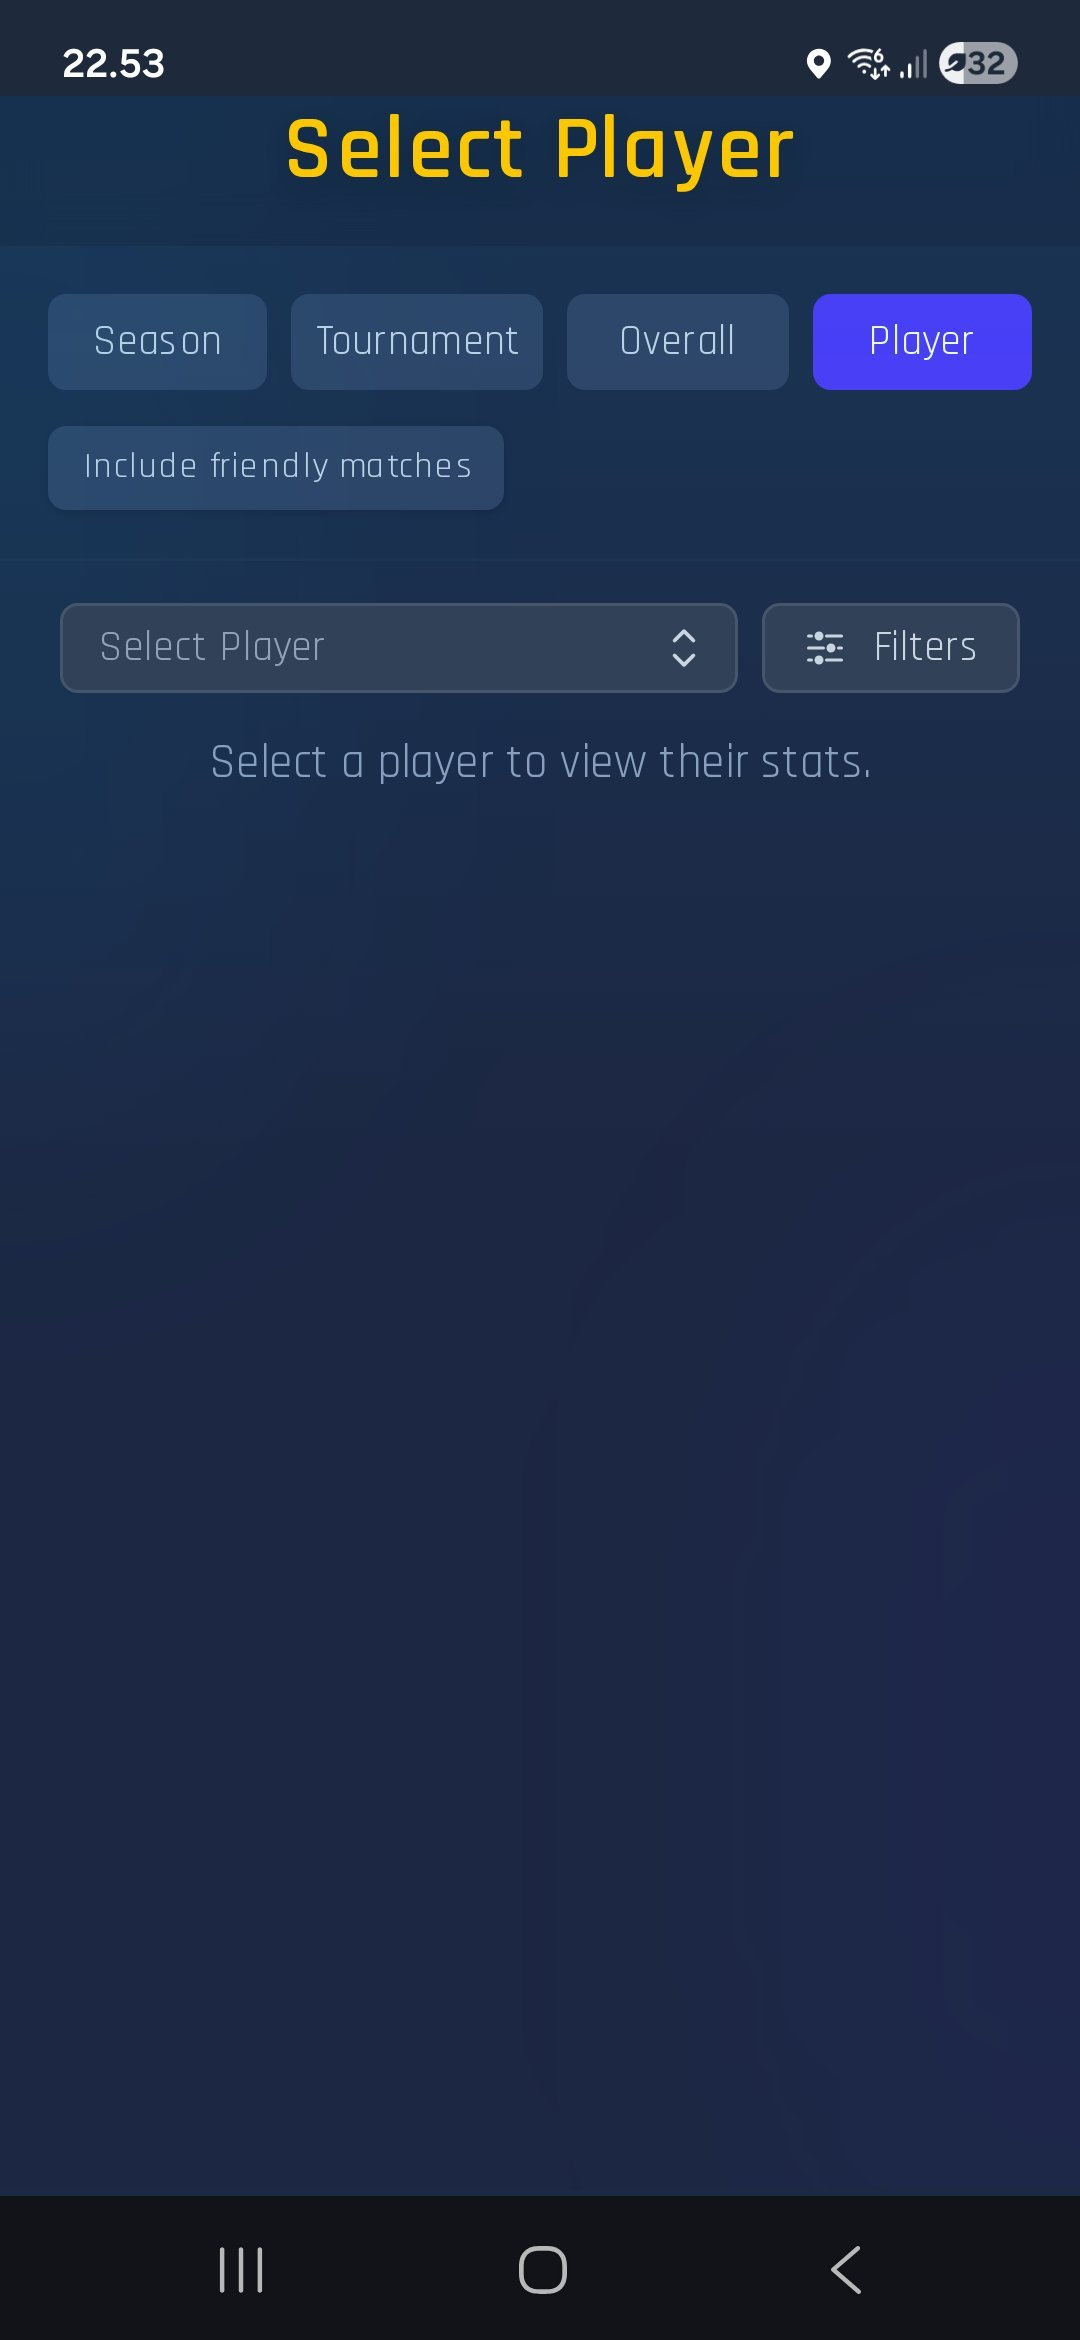
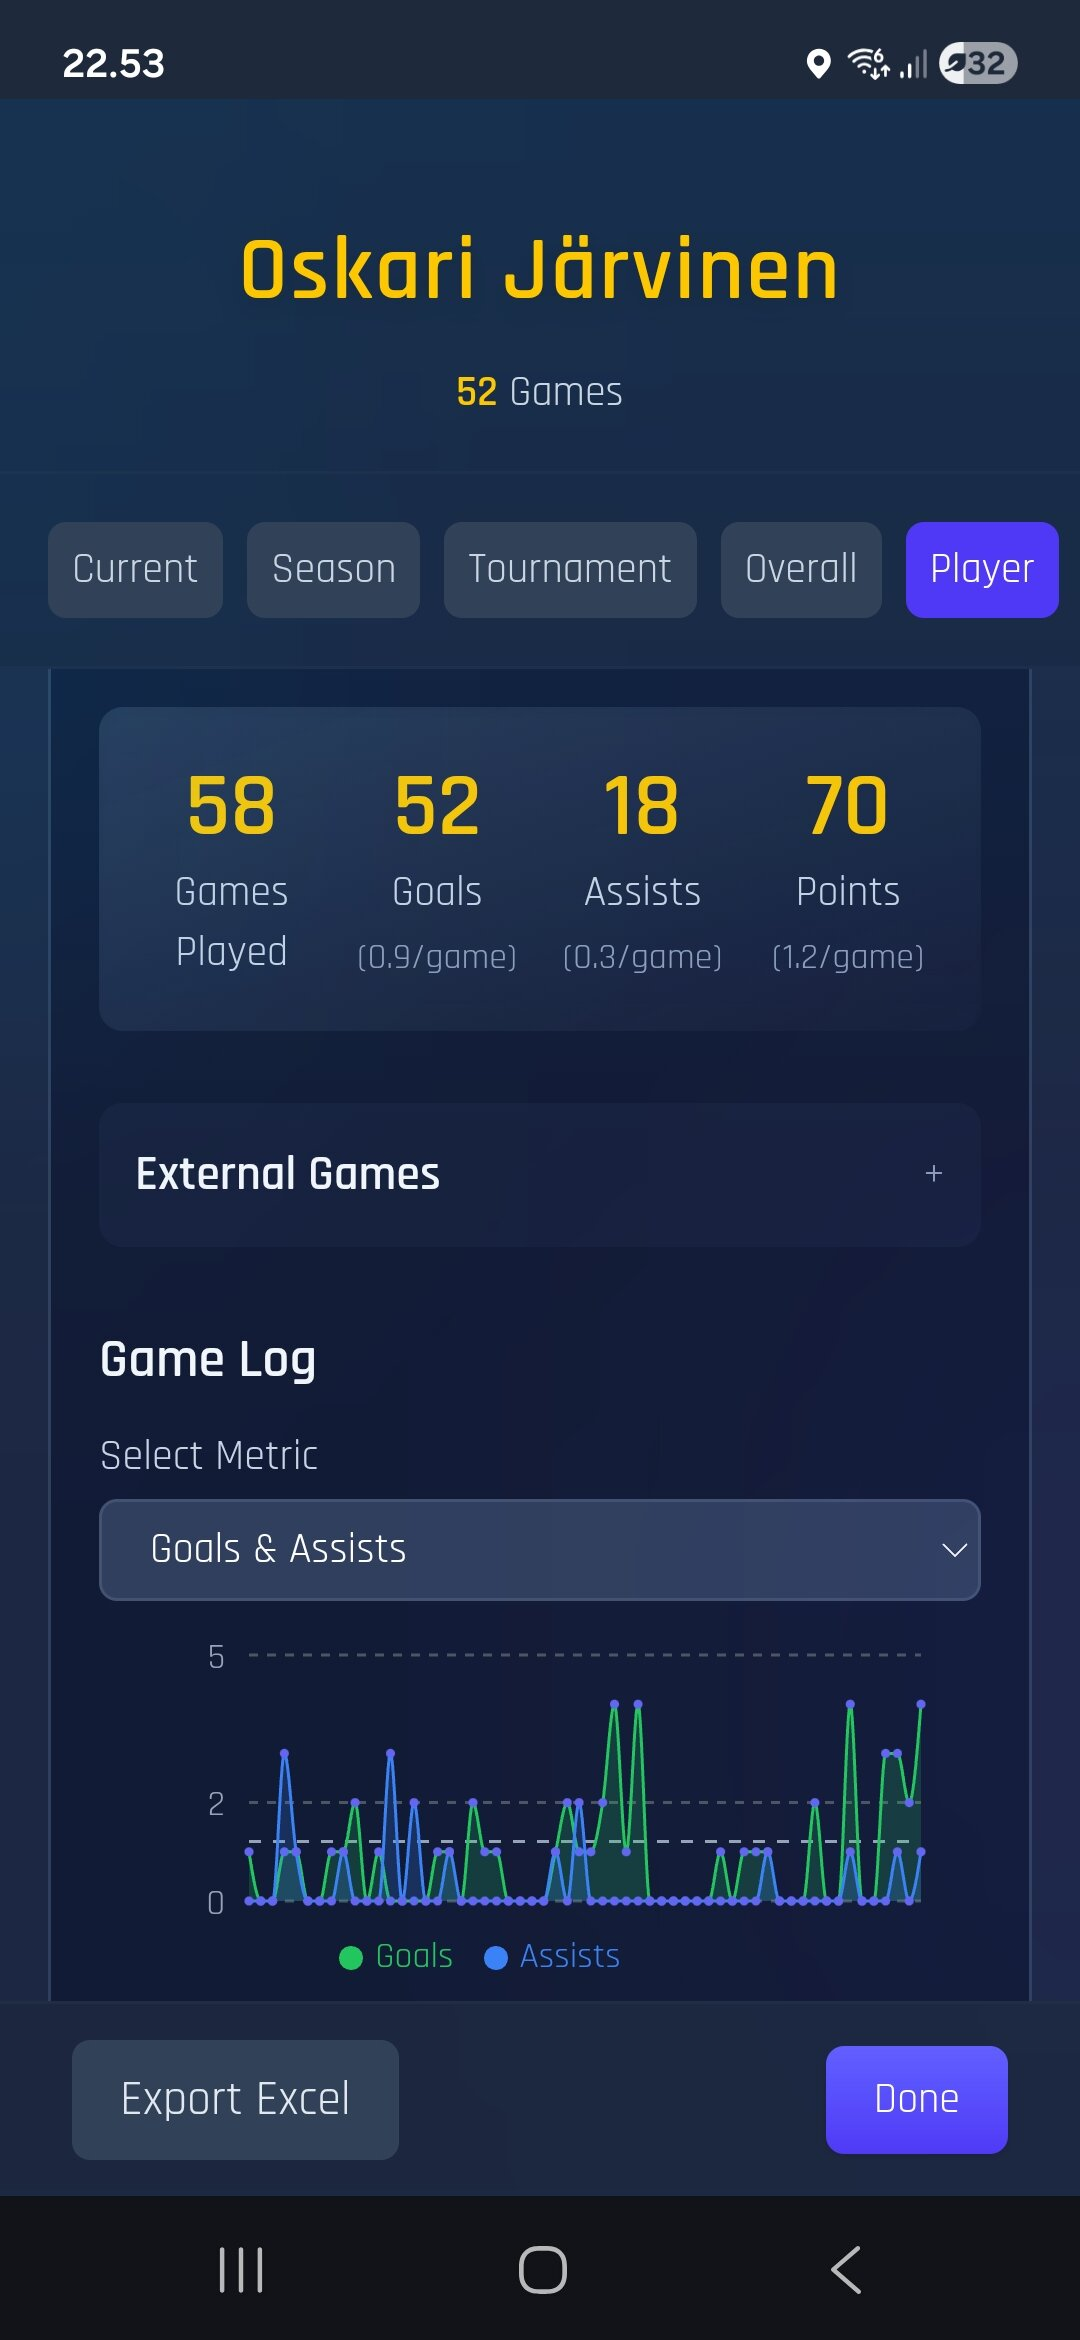
Marketing: unify chrome on reused shots (re-chrome to match v2)
Composite the standard v2 status/nav bars onto the unchanged-screen shots
(soccer field, player stats, team stats, archive, Excel export, futsal,
official rules, cloud sync, tactical board) so their status bars match the
recaptured v2 screenshots. Image edit only - app content unchanged. Old
MatchOps_main_* / MatcOps_main_* originals preserved.

Still on old images pending reshoot: development trends, positions, match report.

Claude-Session: https://claude.ai/code/session_01KeY7QUkHKMt5DK6MCUM3ES

diff --git a/site/pages/index.tsx b/site/pages/index.tsx
@@ -16,15 +16,15 @@ const getScreenshots = (locale: string | undefined) => {
   const isEnglish = locale === 'en';
   return {
     // Main hero screenshots
-    soccerfield: '/screenshots/MatchOps_main_soccerfield_new_en_fi.jpg',
+    soccerfield: '/screenshots/MatchOps_v2_soccerfield_en_fi.jpg',
     timer: isEnglish
       ? '/screenshots/MatchOps_v2_timer_en.jpg'
       : '/screenshots/MatchOps_v2_timer_fi.jpg',
     playerstats: isEnglish
-      ? '/screenshots/MatchOps_main_playerstatistics_en.jpg'
-      : '/screenshots/MatchOps_Main_playerstats_full.jpg',
+      ? '/screenshots/MatchOps_v2_playerstats_en.jpg'
+      : '/screenshots/MatchOps_v2_playerstats_fi.jpg',
     // Feature card screenshots
-    tacticalBoard: '/screenshots/MatcOps_main_tacticaldrawingstate_fi_en.jpg',
+    tacticalBoard: '/screenshots/MatchOps_v2_tacticalboard_en_fi.jpg',
     formations: isEnglish
       ? '/screenshots/MatchOps_v2_formations_en.jpg'
       : '/screenshots/MatchOps_v2_formations_fi.jpg',
@@ -62,27 +62,27 @@ const getScreenshots = (locale: string | undefined) => {
       ? '/screenshots/MatchOps_v2_teams_en.jpg'
       : '/screenshots/MatchOps_v2_teams_fi.jpg',
     archive: isEnglish
-      ? '/screenshots/MatcOps_main_savedgames_en.jpg'
-      : '/screenshots/MatchOps_main_savedgames_fi.jpg',
+      ? '/screenshots/MatchOps_v2_archive_en.jpg'
+      : '/screenshots/MatchOps_v2_archive_fi.jpg',
     goalTimeline: isEnglish
       ? '/screenshots/MatchOps_v2_goallog_en.jpg'
       : '/screenshots/MatchOps_v2_goallog_fi.jpg',
     excelExport: isEnglish
-      ? '/screenshots/MatcOps_main_excelexport_en.jpg'
-      : '/screenshots/MatchOps_main_excelexport_fi.jpg',
+      ? '/screenshots/MatchOps_v2_excelexport_en.jpg'
+      : '/screenshots/MatchOps_v2_excelexport_fi.jpg',
     personnel: isEnglish
       ? '/screenshots/MatchOps_v2_personnel_en.jpg'
       : '/screenshots/MatchOps_v2_personnel_fi.jpg',
-    futsal: '/screenshots/MatchOps_main_futsal_new_en_fi.jpg',
+    futsal: '/screenshots/MatchOps_v2_futsal_en_fi.jpg',
     officialRules: isEnglish
-      ? '/screenshots/MatchOps_main_rules_en.jpg'
-      : '/screenshots/MatchOps_main_rules_fi.jpg',
+      ? '/screenshots/MatchOps_v2_rules_en.jpg'
+      : '/screenshots/MatchOps_v2_rules_fi.jpg',
     cloudSync: isEnglish
-      ? '/screenshots/MatchOps_main_cloudSync_en.jpg'
-      : '/screenshots/MatchOps_main_CloudSync_fi.jpg',
+      ? '/screenshots/MatchOps_v2_cloudsync_en.jpg'
+      : '/screenshots/MatchOps_v2_cloudsync_fi.jpg',
     teamstats: isEnglish
-      ? '/screenshots/MatchOps_main_teamstats_en.jpg'
-      : '/screenshots/MatchOps_main_teamstats_fi.jpg',
+      ? '/screenshots/MatchOps_v2_teamstats_en.jpg'
+      : '/screenshots/MatchOps_v2_teamstats_fi.jpg',
     // NEW features (planner / dashboard / friendlies) — Phase 2 replaces these
     // placeholders with real shots. Kept as existing images so Phase 1 renders.
     planner: isEnglish
